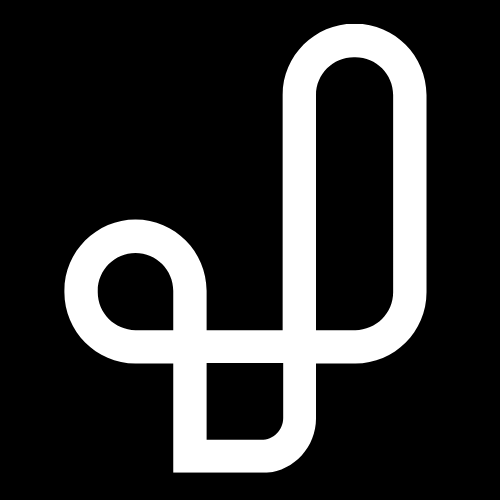
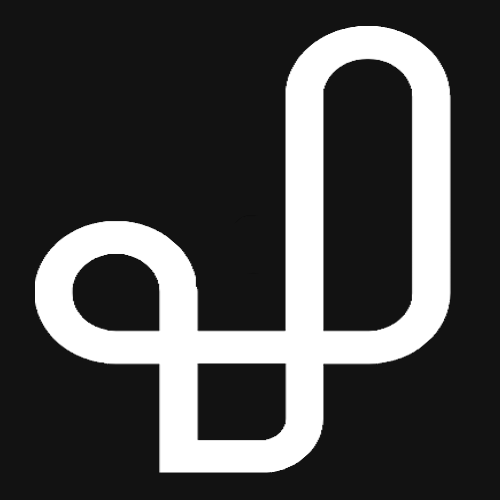
Improve design and add Github link for project.

diff --git a/blog/static/blog/css/theme.css b/blog/static/blog/css/theme.css
@@ -1,4 +1,5 @@
 /* Mobiles upto 479 maximum width (portrait) ----------- */
+
 body{
     font-family: raleway;
     color: rgb(255,255,255);
@@ -14,14 +15,12 @@ body{
 #menuimg{
     width: 2rem;
     cursor: pointer;
-    padding: 1rem;
+    padding-top: 0.5rem;
 }
 
 .menucontent{
     height: 7rem;
     text-align: left;
-    padding: 0.3rem;
-    background-color: rgb(0,0,0);
     animation: movedown 0.5s;
     position: relative;
     left: 0;
@@ -38,8 +37,7 @@ body{
 .menucontent a{
     font-size: 1rem;
     text-decoration: none;
-    padding: 0.3rem 1rem;
-    color: rgb(255,255,255);
+    padding-top: 1rem;
     display: block;
 }
 
@@ -68,7 +66,8 @@ body{
 }
 
 #navigation{
-    background-color: rgb(0, 0, 0);
+    color: rgb(255,255,255);
+    background-color: rgb(18, 18, 18);
     left: 0;
     right: 0;
     top: 0;
@@ -77,22 +76,27 @@ body{
     display: grid;
     grid-template-columns: 20% 80%;
     transition: top 0.5s;
+    padding: 1rem 3rem;
+    box-shadow: 0px 10px 20px -10px rgba(0, 0, 0, 0.75);
+}
+
+#navigation div:nth-child(1){
+    text-align: left;
+    padding: 0;
 }
 
 #navigation div:nth-child(2){
     text-align: right;
-    padding: 0.6rem 0.3rem 0.3rem 0.3rem;
+    padding: 0;
 }
 
 #menu > a{
     font-family: consola;
     font-size: 1rem;
     text-decoration: none;
-    color: rgb(255,255,255);
-    background-color: rgb(0,0,0);
-    padding: 1rem;
     position: relative;
-    top: 15%;
+    padding-left: 2rem;
+    top: 25%;
 }
 
 #menu a:link{
@@ -111,13 +115,8 @@ body{
     color: rgb(69,170,242);
 }
 
-#navlogo{
-    text-align: left;
-    padding: 0.2rem 0.3rem 0.2rem 2rem;
-}
-
 #navimg{
-    width: 5rem;
+    width: 3rem;
 }
 
 #home{
@@ -159,7 +158,7 @@ body{
     margin: 4rem 0 3rem 3rem;
 }
 
-.more-button {
+.more-button{
     font-family: consola;
     font-size: 1rem;
     text-decoration: none;
@@ -176,7 +175,7 @@ body{
     color: rgb(0, 0, 0);
 }
 
-.blink {
+.blink{
     animation: blink 0.5s infinite;
 }
 
@@ -185,11 +184,11 @@ body{
 
 }
 
-.flex {
+.flex{
 	display: flex;
 }
 
-.header-sub-title {
+.header-sub-title{
     font-family: calm;
 
 }
@@ -324,28 +323,39 @@ body{
     color: rgb(255, 255, 255);
 }
 
-#project-description p{
-    background-color: rgb(20, 20, 20);
-    font-family: raleway;
-    font-size: 1.1rem;
-    padding: 1.5rem;
-    border-radius: 5px;
-}
-
-#project-description p:nth-child(1){
+#project-title{
     background-color: rgba(0, 0, 0, 0);
     font-family: calm;
     font-size: 1.3rem;
     box-shadow: 0px 0px rgba(0, 0, 0, 0);
+    padding: 1rem 1.5rem;
 }
 
-#project-description div:nth-child(4){
-    margin: 2rem 0 0 0;
+#project-shortcontent{
+    background-color: rgb(20, 20, 20);
+    font-family: raleway;
+    font-size: 1.1rem;
+    box-shadow: 0px 10px 20px -10px rgba(0, 0, 0, 0);
+    border-radius: 5px;
+    padding: 1rem 1.5rem;
+}
+
+#skillsused{
+    padding: 0.5rem 1.5rem;
+}
+
+#project-links{
+    padding: 2rem 1.5rem;
+}
+
+#project-links >a:hover{
+    background-color: rgb(255, 255, 255);
+    color: rgb(0, 0, 0);
 }
 
 .skillusedimg{
     width: 1.5rem;
-    margin: 0 1rem 0 0;
+    margin: 0 0 0 1rem;
 }
 
 #postdetail{
@@ -561,7 +571,7 @@ body{
 
     #contactlist{
         position: fixed;
-        left: 1%;
+        left: 3%;
         bottom: 0%;
     }
 
@@ -594,7 +604,7 @@ body{
     #user-email-list{
         display: block;
         position: fixed;
-        right: 3%;
+        right: 5%;
         bottom: 0%;
     }
 
@@ -684,8 +694,20 @@ body{
         margin: 0 10rem 0 0;
     }
 
-    #project-description p{
-        box-shadow: 0 4px 8px 0 rgba(0, 0, 0, 0.2), 0 6px 20px 0 rgba(0, 0, 0, 0.19);
+    #project-title{
+        padding: 1rem 0;
+    }
+
+    #project-shortcontent{
+        box-shadow: 0px 10px 20px -10px rgba(0, 0, 0, 0.80);
+    }
+
+    #skillsused{
+        padding: 0.5rem 0;
+    }
+
+    #project-links{
+        padding: 2rem 0;
     }
 
     .projectimg{
@@ -717,10 +739,6 @@ body{
 
 /* Notebooks 1024 minimum width and 681 minimum height upto 1365 maximum height ----------- */
 @media only screen and (min-width : 1024px) and (min-height : 681px) and (max-height : 1365px){
-
-    #dropdownmenu{
-        display: none;
-    }
 
     #menu{
         display: inline;

diff --git a/blog/templates/blog/section.html b/blog/templates/blog/section.html
@@ -66,16 +66,17 @@
 							<a href="{% url 'project' category=1 pk=project.pk slug=project.slug %}"><img src="{% static 'blog/media/project/' %}{{ project.imagename }}" alt="Project Image" class="projectimg"></a>
 						</div>
 						<div id="project-description" class="container reveal">
-							<a href="{% url 'project' category=1 pk=project.pk slug=project.slug %}"><p>{{ project.title }}</p></a>
-							<p>{{ project.shortcontent }}</p>
-							<div class="skillsused">
+							<a href="{% url 'project' category=1 pk=project.pk slug=project.slug %}"><p id="project-title">{{ project.title }}</p></a>
+							<p id="project-shortcontent">{{ project.shortcontent }}</p>
+							<div id="skillsused">
 								<span>
 									{% for skill in project.skill.all %}
 										<img src="{% static 'blog/media/skill/' %}{{ skill.imagename }}" alt="{{ skill.name }}" class="skillusedimg">
 									{% endfor %}
 								</span>
 							</div>
-							<div>
+							<div id="project-links">
+								<a class="more-button" href="{{ project.repo }}" target="_blank">GitHub <img src="{% static 'blog/media/social/github.png' %}" style="width: 1rem;"></a>
 								<a class="more-button" href="{% url 'project' category=1 pk=project.pk slug=project.slug %}">Learn More >></a>
 							</div>
 						</div>

diff --git a/blog/templates/blog/index.html b/blog/templates/blog/index.html
@@ -38,7 +38,7 @@
 			<section id="home">
 				<div id="navigation">
 					<div id="navlogo">
-						<a href="{% url 'home' %}"><img src="{% static 'blog/images/logo.png' %}" alt="Logo" id="navimg"></a>
+						<a href="{% url 'home' %}"><img src="{% static 'blog/images/icon.png' %}" alt="Logo" id="navimg"></a>
 					</div>
 					<div>
 						<div id="dropdownmenu">

diff --git a/blog/admin.py b/blog/admin.py
@@ -21,9 +21,9 @@ class ProfileAdmin(admin.ModelAdmin):
 
 class ProjectAdmin(admin.ModelAdmin):
 
-	list_display = ('title', 'dateposted', 'author', 'imagename', 'shortcontent', 'slug')
-	list_filter = ('title', 'dateposted', 'author', 'imagename', 'shortcontent', 'slug')
-	search_fields = ('title', 'dateposted', 'author', 'imagename', 'shortcontent', 'slug')
+	list_display = ('title', 'dateposted', 'author', 'imagename', 'shortcontent', 'slug', 'repo')
+	list_filter = ('title', 'dateposted', 'author', 'imagename', 'shortcontent', 'slug', 'repo')
+	search_fields = ('title', 'dateposted', 'author', 'imagename', 'shortcontent', 'slug', 'repo')
 
 class ProjectViewAdmin(admin.ModelAdmin):
 

diff --git a/blog/migrations/0001_initial.py b/blog/migrations/0001_initial.py
@@ -1,4 +1,4 @@
-# Generated by Django 4.0.3 on 2022-04-29 18:22
+# Generated by Django 4.0.3 on 2022-05-01 16:26
 
 import ckeditor_uploader.fields
 from django.conf import settings
@@ -34,6 +34,7 @@ class Migration(migrations.Migration):
                 ('shortcontent', models.TextField(max_length=300)),
                 ('longcontent', ckeditor_uploader.fields.RichTextUploadingField()),
                 ('slug', models.SlugField(blank=True, unique=True)),
+                ('repo', models.TextField(max_length=300)),
                 ('author', models.ForeignKey(on_delete=django.db.models.deletion.CASCADE, to='blog.profile')),
             ],
         ),

diff --git a/blog/models.py b/blog/models.py
@@ -45,6 +45,7 @@ class Project(models.Model):
 	shortcontent = models.TextField(max_length=300)
 	longcontent = RichTextUploadingField()
 	slug = models.SlugField(unique=True, blank=True)
+	repo = models.TextField(max_length=300)
 
 	def save(self, *args, **kwargs):
 
